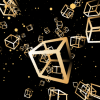
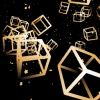
behind camera

diff --git a/2026/3d-swirl-motion/main.js b/2026/3d-swirl-motion/main.js
@@ -9,6 +9,7 @@ async function main() {
   const hexLines = hexLinesContext.createLines();
 
   const targetSwirly = new Swirly({
+    startPosition: new Vec3(0, 0, -50),
     randomTranspose: new Vec3(),
     randomScale: (1 + random(1)) / 100,
     randomSpeed: (1 + random(1)) / 4,
@@ -32,8 +33,8 @@ async function main() {
 }
 
 class Swirly {
-  constructor({randomTranspose, randomScale, randomSpeed, targetPosition, targetPull}) {
-    this.position = targetPosition.clone();
+  constructor({startPosition, randomTranspose, randomScale, randomSpeed, targetPosition, targetPull}) {
+    this.position = startPosition ?? targetPosition.clone();
     this.randomScale = randomScale;
     this.randomSpeed = randomSpeed;
     this.randomTranspose = randomTranspose;
